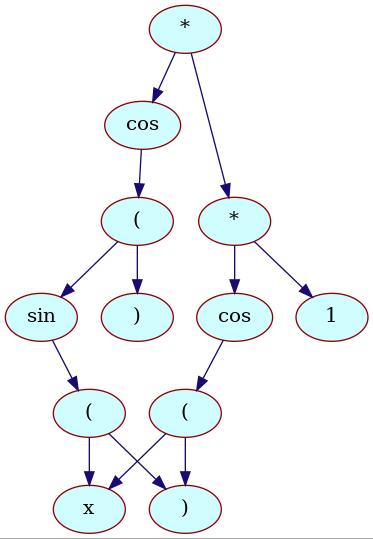
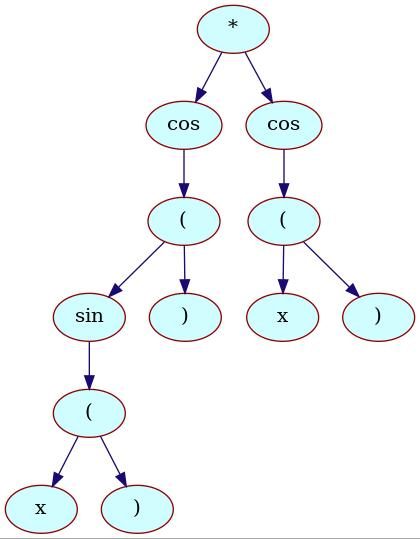
Added recursive copy; added cases in func convolveNeutral; delated extra brackets in Latex dump

diff --git a/source/diff.c b/source/diff.c
@@ -209,10 +209,10 @@ void convolveNeutral(node_t* node)
             node->right = node->right->right;
             return;
         }
-        node->type = node->right->type;
-        node->data = node->right->data;
         treeNodeDtor(node->left);
         node->left = NULL;
+        node->type = node->right->type;
+        node->data = node->right->data;
 
         return;
     }
@@ -225,10 +225,20 @@ void convolveNeutral(node_t* node)
             node->left  = node->left->left;
             return;
         }
-        node->type = node->left->type;
-        node->data = node->left->data;
+        if(islOP(OP_COS) || islOP(OP_SIN) || islOP(OP_EXP) || islOP(OP_LN))
+        {
+            node->right = copyNode(node->left);
+            treeNodeDtor(node->left);
+            node->left = NULL;
+            node->type = node->right->type;
+            node->data = node->right->data;
+            
+            return;            
+        }
         treeNodeDtor(node->right);
         node->right = NULL;
+        node->type = node->left->type;
+        node->data = node->left->data;
 
         return;
     }
@@ -265,8 +275,19 @@ void convolveNeutral(node_t* node)
     }
     if(isOpenBrt(node) && isOpenBrt(node->left) && (node->right == NULL))
     {
+        ++Count_Conv;
         node->right = node->left->right;
         node->left = node->left->left;
+    }
+    if((isCos(node) && isCos(node->right)) || (isSin(node) && isSin(node->right)))
+    {
+        ++Count_Conv;
+        node->right = node->right->right;
+    }
+    if((isExp(node) && isExp(node->right)) || (isLn(node) && isLn(node->right)))
+    {
+        ++Count_Conv;
+        node->right = node->right->right;
     }
 }
 
@@ -406,7 +427,7 @@ void dumpLaTeX(FILE* file, const node_t* node)
         return;
 
     case OP:
-        if ((node->left == NULL) && (node->right == NULL))
+        if ((node->left == NULL) && (node->right == NULL) && (node->data.opValue != OP_CLOSBRT))
         {
             fprintf(file, "\\text{error}");
             return;    
@@ -452,15 +473,13 @@ void dumpLaTeX(FILE* file, const node_t* node)
             break;            
 
         case OP_COS:
-            fprintf(file, "cos(");
+            fprintf(file, "cos");
             dumpLaTeX(file, node->right);
-            fprintf(file, ")");
             break; 
 
         case OP_SIN:
-            fprintf(file, "sin(");
+            fprintf(file, "sin");
             dumpLaTeX(file, node->right);
-            fprintf(file, ")");
             break; 
 
         case OP_EXP:
@@ -470,14 +489,17 @@ void dumpLaTeX(FILE* file, const node_t* node)
             break; 
 
         case OP_LN:
-            fprintf(file, "ln(");
+            fprintf(file, "ln");
             dumpLaTeX(file, node->right);
-            fprintf(file, ")");
             break; 
 
         case OP_OPENBRT:
             fprintf(file, "(");
             dumpLaTeX(file, node->left);
+            dumpLaTeX(file, node->right);
+            break;
+
+        case OP_CLOSBRT:
             fprintf(file, ")");
             break;
 
@@ -522,30 +544,47 @@ int printExpression(node_t* node, int type)
         {
         case OP_ADD:
             printf("+");
+            break;
 
         case OP_SUB:
             printf("-");
+            break;
 
         case OP_MUL:
             printf("*");
+            break;
 
         case OP_DIV:
             printf("/");
+            break;
 
         case OP_POW:
             printf("^");
+            break;
 
         case OP_SIN:
             printf("sin");
+            break;
 
         case OP_COS:
             printf("cos");
+            break;
         
         case OP_EXP:
             printf("exp");
+            break;
 
         case OP_LN:
             printf("ln");
+            break;
+
+        case OP_OPENBRT:
+            printf("(");
+            break;
+        
+        case OP_CLOSBRT:
+            printf(")");
+            break;
         }        
     }
     if(type == ALL)
@@ -831,6 +870,19 @@ int isExp(node_t* node)
 
 //-------------------------------------------------------------------
 
+int isLn(node_t* node)
+{
+    CHECK(node != NULL, ERR_DIFF_NULL_PTR);
+
+    if((node->type == OP) && (node->data.opValue == OP_LN))
+    {
+        return true;
+    }
+    return false;
+}
+
+//-------------------------------------------------------------------
+
 int isOpenBrt(node_t* node)
 {
     CHECK(node != NULL, ERR_DIFF_NULL_PTR);
@@ -841,5 +893,3 @@ int isOpenBrt(node_t* node)
     }
     return false;
 }
-
-//-------------------------------------------------------------------

diff --git a/source/diff_tree.c b/source/diff_tree.c
@@ -37,16 +37,6 @@ node_t* createNode(int val, node_t* left, node_t* right)
 
 node_t* copyNode(node_t* prev_node)
 {
-    //
-    if(prev_node->left != NULL)
-    {
-        copyNode(prev_node->left);
-    }
-    if(prev_node->right != NULL)
-    {
-        copyNode(prev_node->right);
-    }
-
     node_t* node = (node_t*) calloc(1, sizeof(node_t));
     CHECK(node !=  NULL, NULL);
 
@@ -71,8 +61,24 @@ node_t* copyNode(node_t* prev_node)
         break;
     }
 
-    node->left  = prev_node->left;
-    node->right = prev_node->right;
+    if(prev_node->left != NULL)
+    {
+        node_t* left = copyNode(prev_node->left);
+        node->left = left;
+    }
+    else
+    {
+        node->left  = NULL;
+    }
+    
+    if(prev_node->right != NULL)
+    {
+        node_t* right = copyNode(prev_node->right);
+        node->right = right;
+        
+        return node;
+    }
+    node->right = NULL;
 
     return node;     
 }

diff --git a/include/diff.h b/include/diff.h
@@ -8,14 +8,20 @@ const static double _NUM_E_ = 2.7182818284;
 const static double EPSILON = 1e-6;
 
 
-#define dL differentiate(copyNode(node->left))
-#define dR differentiate(copyNode(node->right))
+#define dL differentiate(node->left)
+#define dR differentiate(node->right)
 
 #define cL copyNode(node->left)
 #define cR copyNode(node->right)
 
 #define isOP(option)               \
     (node->data.opValue == option) \
+
+#define islOP(option)                    \
+    (node->left->data.opValue == option) \
+
+#define isrOP(option)                     \
+    (node->right->data.opValue == option) \
 
 //=========================================================================
 
@@ -76,3 +82,4 @@ int isSin(node_t* node);
 int isCos(node_t* node);
 int isExp(node_t* node);
 int isOpenBrt(node_t* node);
+int isLn(node_t* node);

diff --git a/main.c b/main.c
@@ -26,7 +26,7 @@ int main()
     node_t* diff_root = differentiate(root);
     tree.root = diff_root;
 
-    //convolveExpression(tree.root);
+    convolveExpression(tree.root);
 
     dumpGraphTree(&tree);
     dump(&tree);
